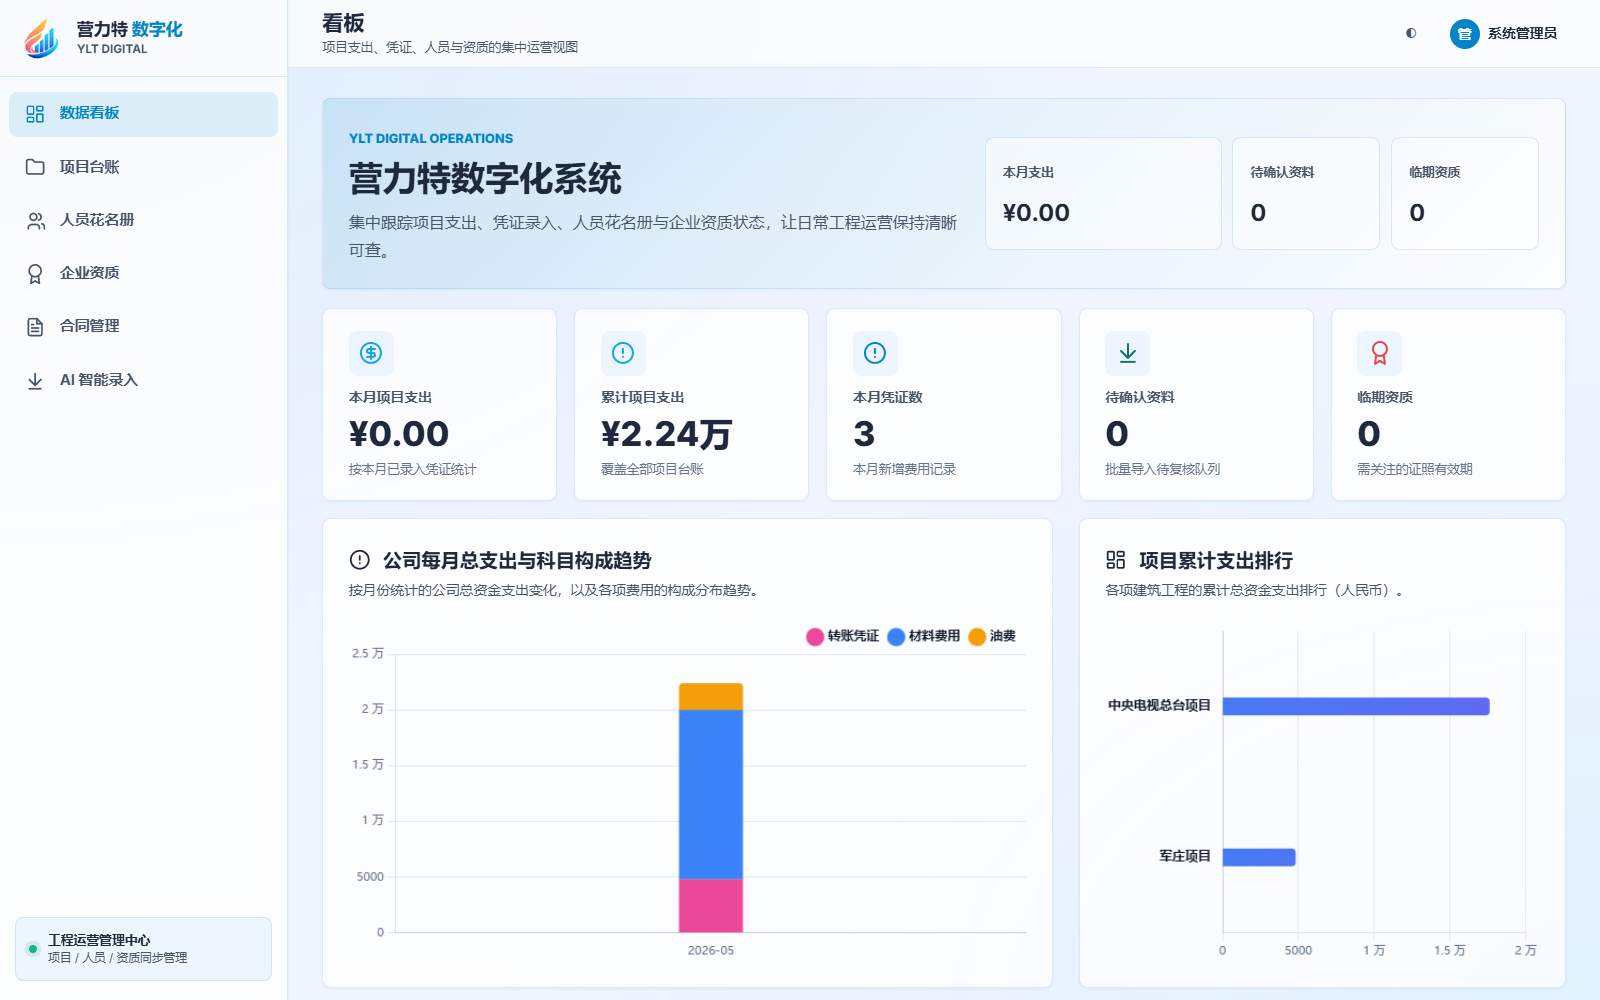
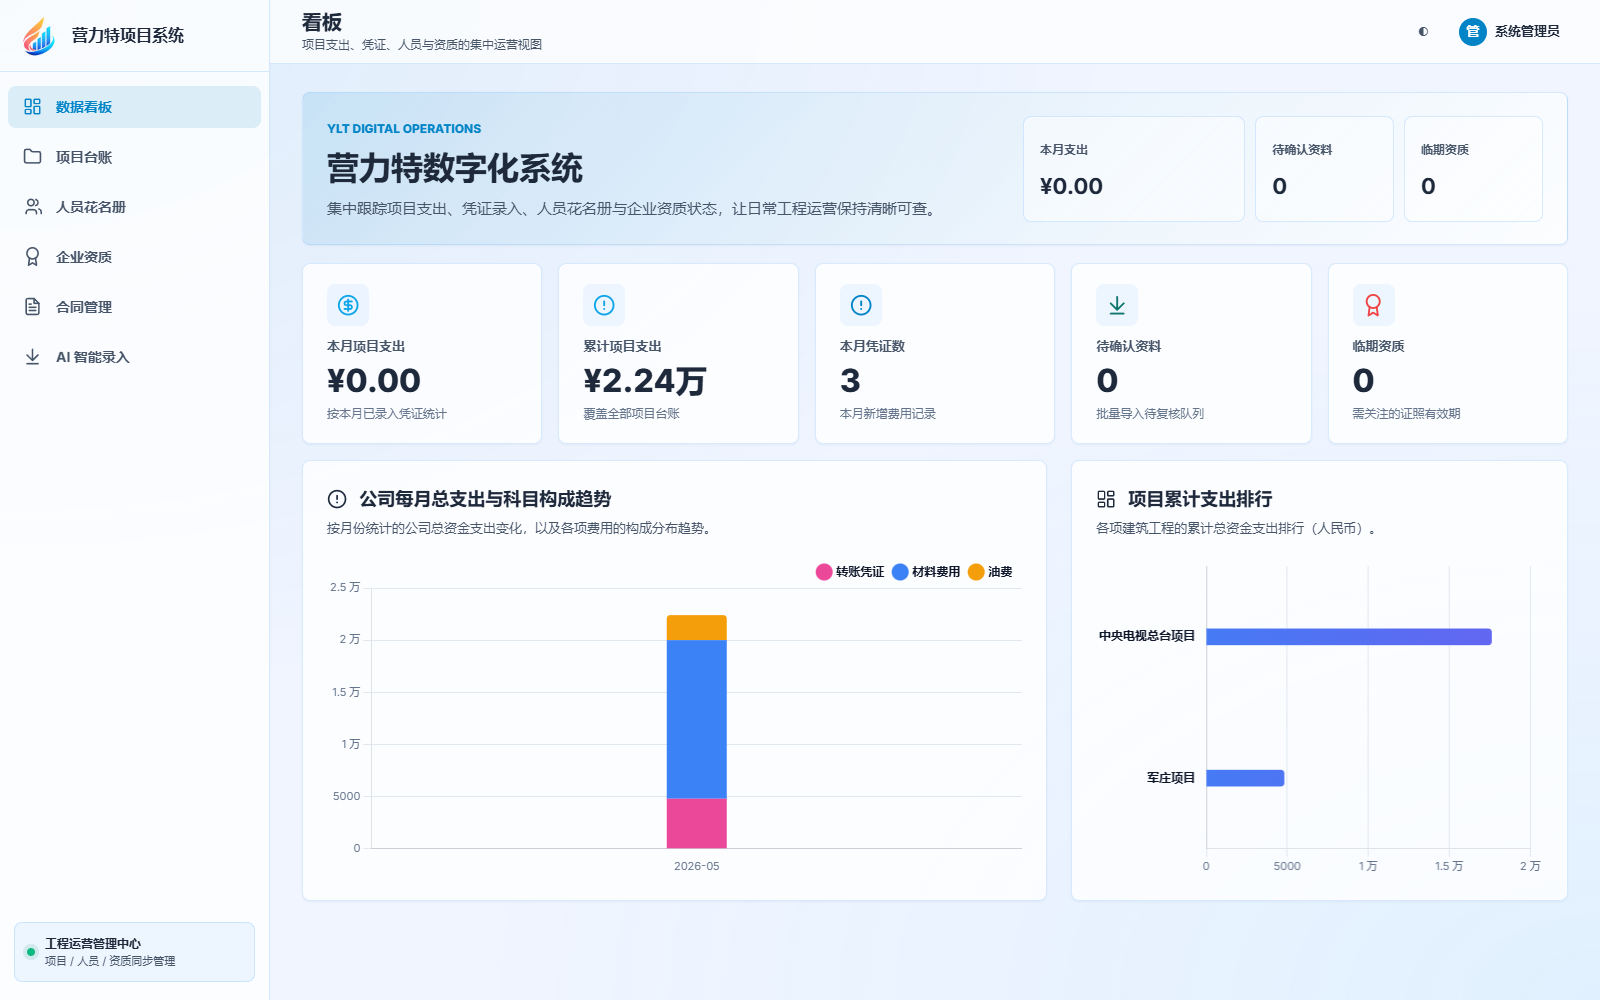
feat: switch login preview image with theme

diff --git a/construction_maintenance/static/app.css b/construction_maintenance/static/app.css
@@ -3115,6 +3115,18 @@ textarea.form-input:focus {
   object-position: left top;
 }
 
+.login-showcase-image-dark {
+  display: none !important;
+}
+
+html.dark-theme .login-showcase-image-light {
+  display: none;
+}
+
+html.dark-theme .login-showcase-image-dark {
+  display: block !important;
+}
+
 .login-showcase-footer {
   position: absolute;
   z-index: 3;

diff --git a/construction_maintenance/templates/login.html b/construction_maintenance/templates/login.html
@@ -6,7 +6,7 @@
     <meta name="viewport" content="width=device-width, initial-scale=1">
     <title>登录 - {{ system_settings.system_name }}</title>
     <link rel="icon" href="{{ url_for('static', filename='brand/ylt-mark.png') }}?v=2.1.11" type="image/png">
-    <link rel="stylesheet" href="{{ url_for('static', filename='app.css') }}?v=2.1.19">
+    <link rel="stylesheet" href="{{ url_for('static', filename='app.css') }}?v=2.1.20">
     <script>
       (function() {
         if (localStorage.getItem('theme') === 'dark') {
@@ -40,8 +40,14 @@
             <span>PROJECT OPERATIONS / LIVE</span>
           </figcaption>
           <img
-            src="{{ url_for('static', filename='login-showcase.png') }}"
-            alt="营力特数字化系统数据看板界面"
+            class="login-showcase-image-light"
+            src="{{ url_for('static', filename='login-showcase.png') }}?v=2.2.0"
+            alt="营力特数字化系统浅色数据看板界面"
+          >
+          <img
+            class="login-showcase-image-dark"
+            src="{{ url_for('static', filename='login-showcase-dark.png') }}?v=2.2.0"
+            alt="营力特数字化系统深色数据看板界面"
           >
         </figure>
 

diff --git a/construction_maintenance/templates/base.html b/construction_maintenance/templates/base.html
@@ -11,7 +11,7 @@
     <link rel="preconnect" href="https://fonts.gstatic.com" crossorigin>
     <link href="https://fonts.googleapis.com/css2?family=Inter:wght@300;400;500;600;700;800&family=Fira+Code:wght@400;500;600&display=swap" rel="stylesheet">
     <script src="https://cdn.jsdelivr.net/npm/chart.js"></script>
-    <link rel="stylesheet" href="{{ url_for('static', filename='app.css') }}?v=2.1.14">
+    <link rel="stylesheet" href="{{ url_for('static', filename='app.css') }}?v=2.1.15">
     <script>
       (function() {
         const theme = localStorage.getItem('theme') || 'light';

diff --git a/tests/test_security.py b/tests/test_security.py
@@ -65,16 +65,22 @@ def test_login_requires_csrf_and_valid_credentials(secure_client):
     assert "login-password-toggle".encode() in response.data
     assert "login-theme-toggle".encode() in response.data
     assert "login-showcase.png".encode() in response.data
+    assert "login-showcase-dark.png".encode() in response.data
     assert "login-panel".encode() in response.data
     assert "YLT DIGITAL".encode() in response.data
     assert "登录工作台".encode() in response.data
     assert "brand/ylt-mark.png".encode() in response.data
-    assert "v0.2.32".encode() in response.data
+    assert "v0.2.33".encode() in response.data
     showcase = secure_client.get(
         "/static/login-showcase.png", base_url="https://localhost"
     )
     assert showcase.status_code == 200
     assert showcase.content_type == "image/png"
+    dark_showcase = secure_client.get(
+        "/static/login-showcase-dark.png", base_url="https://localhost"
+    )
+    assert dark_showcase.status_code == 200
+    assert dark_showcase.content_type == "image/png"
     cookie = response.headers["Set-Cookie"]
     assert "Secure" in cookie
     assert "HttpOnly" in cookie

diff --git a/construction_maintenance/app.py b/construction_maintenance/app.py
@@ -31,7 +31,7 @@ def create_app(test_config: dict[str, Any] | None = None) -> Flask:
         SESSION_COOKIE_HTTPONLY=True,
         SESSION_COOKIE_SECURE=SESSION_COOKIE_SECURE,
         SESSION_COOKIE_SAMESITE="Lax",
-        APP_VERSION="0.2.32",
+        APP_VERSION="0.2.33",
     )
     if test_config:
         app.config.update(test_config)